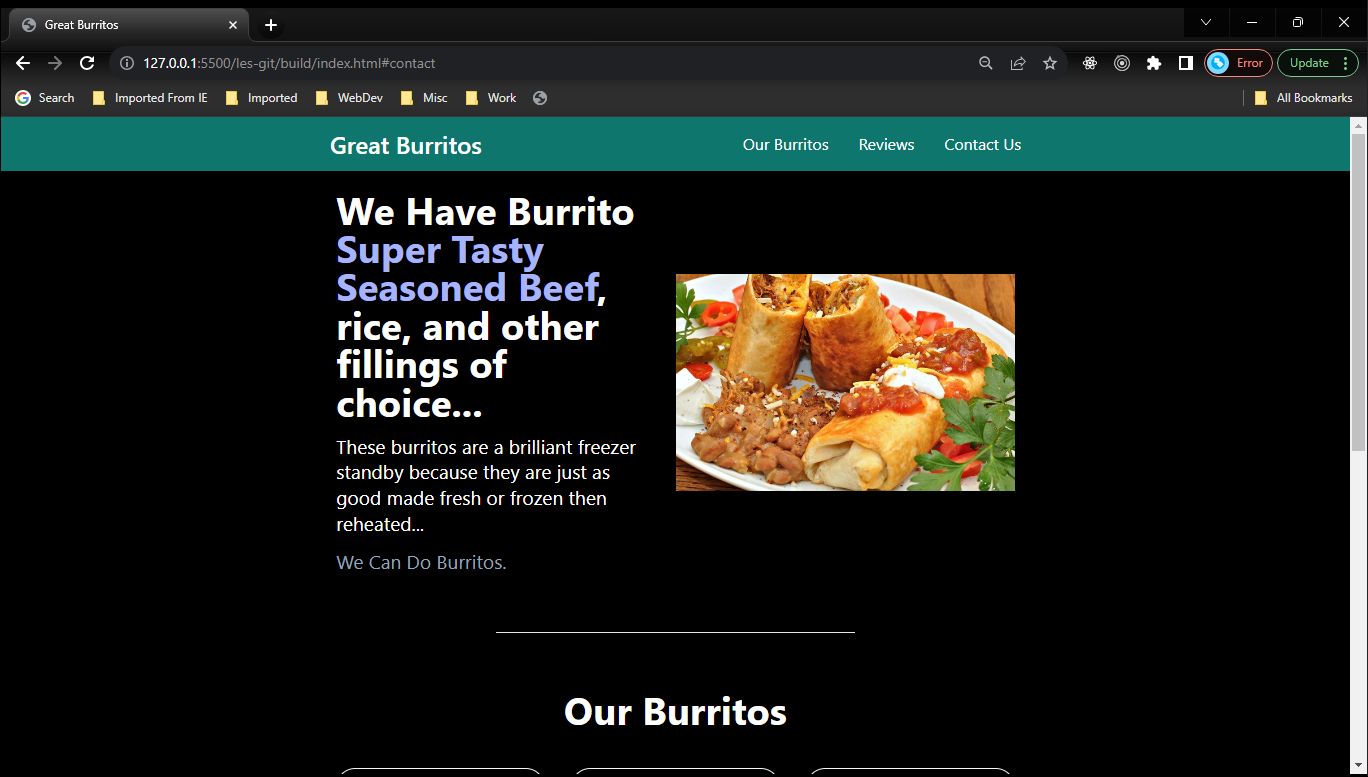
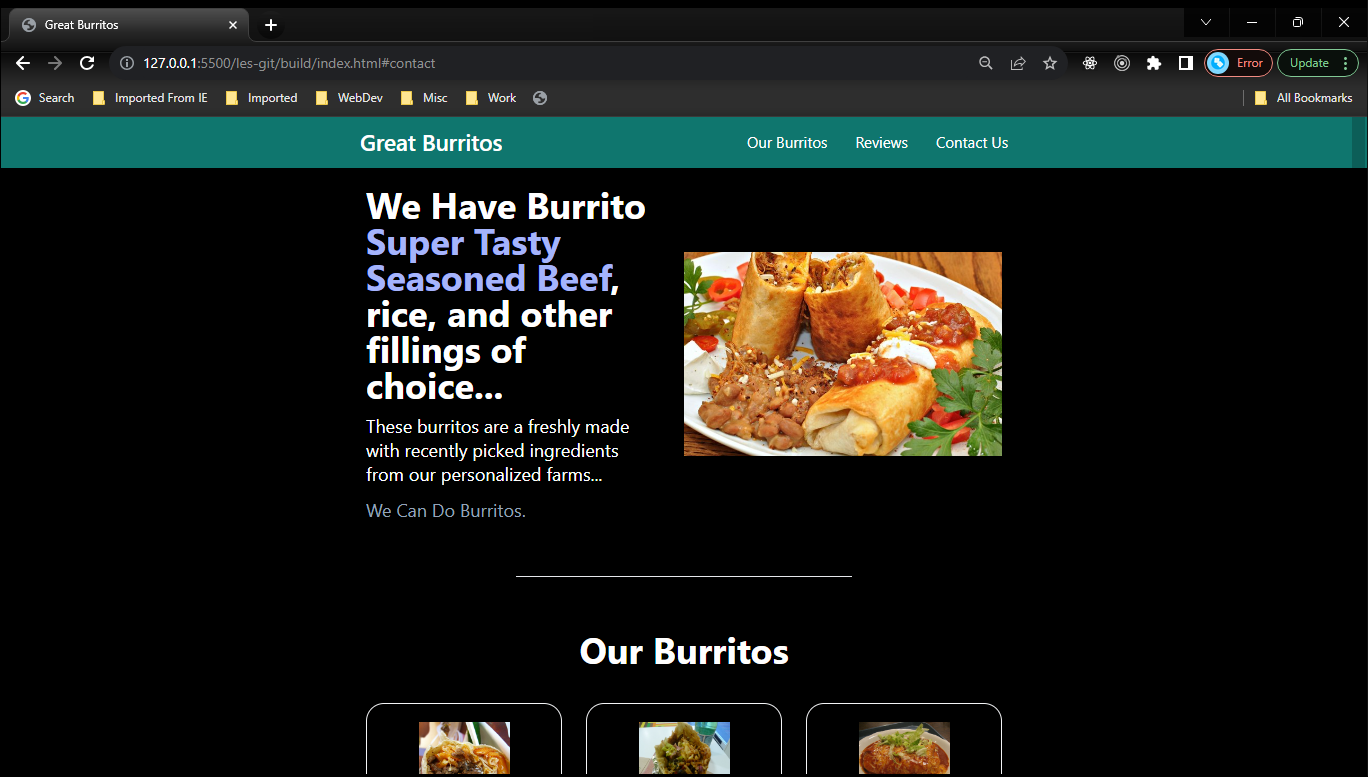
Change the text for the top

diff --git a/build/index.html b/build/index.html
@@ -29,8 +29,7 @@
       <article class="sm:w-1/2">
         <h2 class="max-w-md text-4xl font-bold text-center sm:text-5xl sm:text-left text-slate-900 dark:text-white">We Have Burrito <span class="text-indigo-700 dark:text-indigo-300">Super Tasty Seasoned Beef</span>, 
           rice, and other fillings of choice...</h2>
-        <p class="max-w-md text-2xl mt-4 text-center sm:text-left text-slate-900 dark:text-white">These burritos are a brilliant freezer standby because they are just 
-          as good made fresh or frozen then reheated...</p>
+        <p class="max-w-md text-2xl mt-4 text-center sm:text-left text-slate-900 dark:text-white">These burritos are a freshly made with recently picked ingredients from our personalized farms...</p>
         <p class="max-w-md text-2xl mt-4 text-center sm:text-left text-slate-700 dark:text-slate-400">We Can Do Burritos.</p>
       </article>
   <img class="w-1/2" src="./img/chimichanga-burrito.jpg" alt="Chimichanga">
